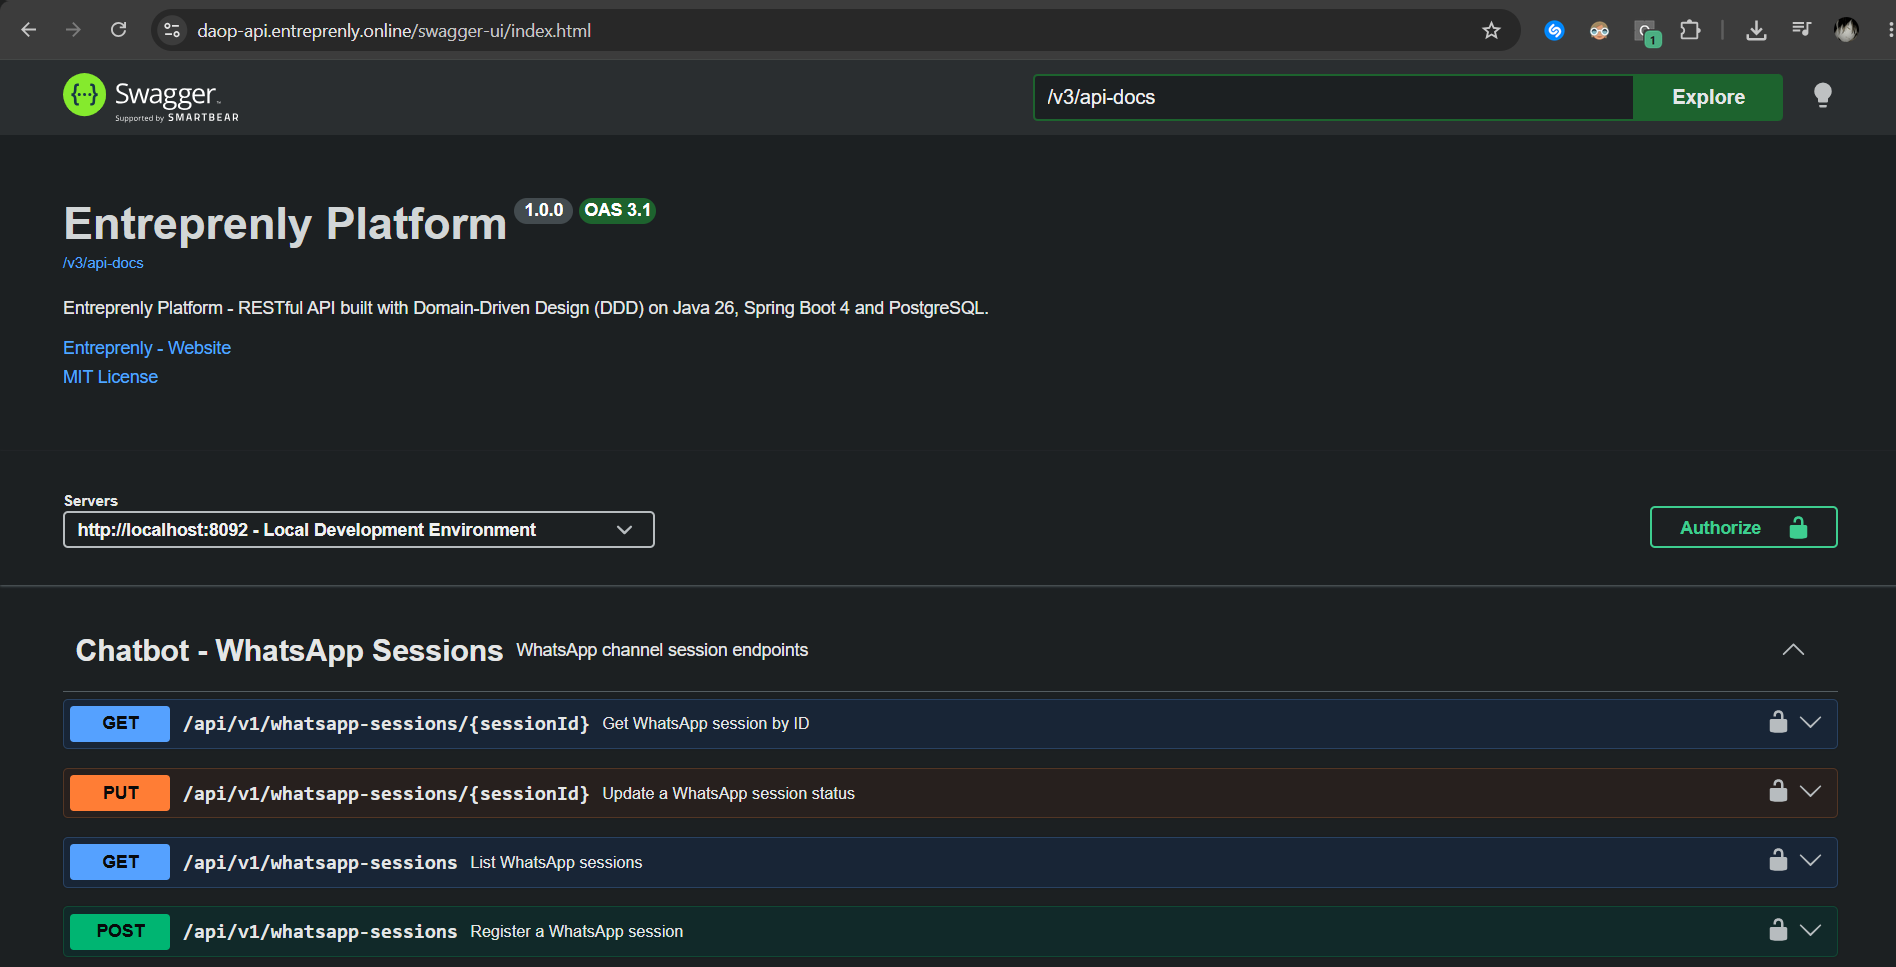
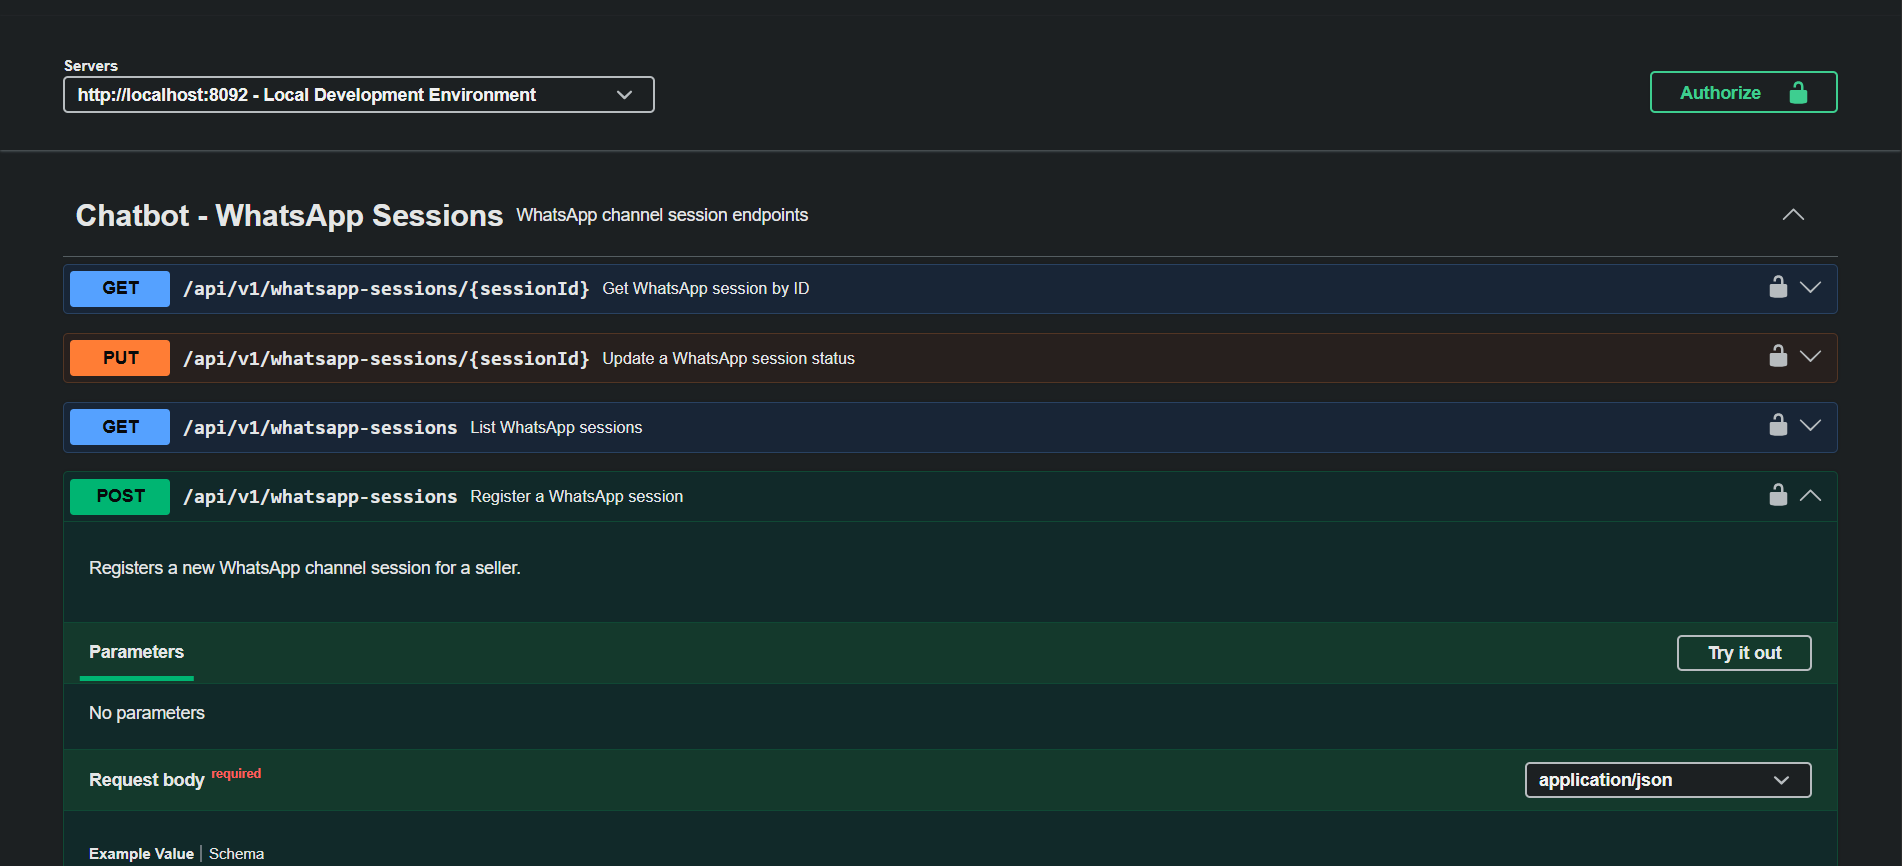
feat: evidencias

diff --git a/docs/capitulo-5.md b/docs/capitulo-5.md
@@ -998,6 +998,8 @@ Durante el Sprint 1, el equipo se centró exclusivamente en el repositorio del L
   </tbody>
 </table>
 
+<img src="images/capitulo5/landing_evi.png" width="800">
+
 ---
 
 #### 5.2.1.5. Execution Evidence for Sprint Review
@@ -1833,6 +1835,8 @@ Durante el Sprint 2, el equipo trabajó exclusivamente sobre el repositorio del 
     </tr>
   </tbody>
 </table>
+
+<img src="images/capitulo5/frontend_evi.png" width="800">
 
 ---
 
@@ -2839,6 +2843,8 @@ Durante el Sprint 3, el equipo trabajó sobre el repositorio de los Web Services
   </tbody>
 </table>
 
+<img src="images/capitulo5/backend_evi.png" width="800">
+
 ---
 
 #### 5.2.3.5. Execution Evidence for Sprint Review
@@ -3296,6 +3302,8 @@ Durante el Sprint 4, el equipo trabajó principalmente sobre el repositorio del 
 </table>
 
 **URL del repositorio del WhatsApp Bridge:** https://github.com/Kauflink/daop-entreprenly-whatsapp-bridge
+
+<img src="images/capitulo5/bridge_evi.png" width="800">
 
 ---
 
